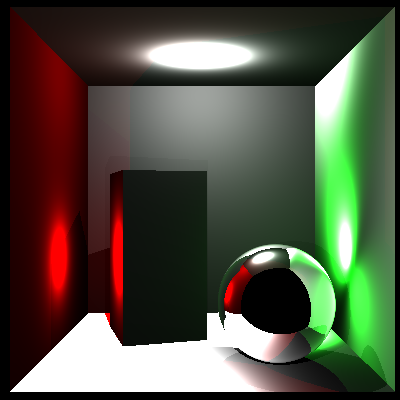
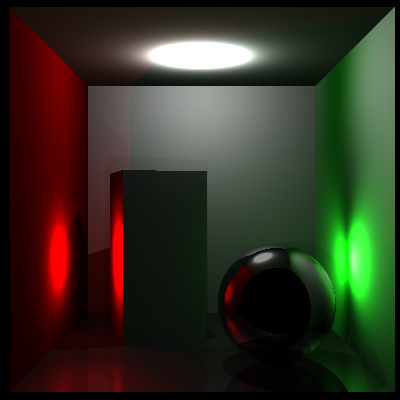
phong issue

Changed region(s): [[0.03, 0.0, 0.99, 0.99]]

diff --git a/rt/integrators/recraytrace.cpp b/rt/integrators/recraytrace.cpp
@@ -5,6 +5,7 @@
 #include <rt/intersection.h>
 #include <rt/solids/solid.h>
 #include <rt/materials/material.h>
+#include <rt/materials/combine.h>
 
 namespace rt
 {
@@ -48,14 +49,14 @@ namespace rt
 			{
 				auto reflectance = currentMaterial->getSampleReflectance(intersection.local(), normal, outDir);
 				Vector inDir = reflectance.direction.normalize();
-				Ray shadowRay = Ray(intersection.hitPoint() + displacement * inDir, inDir);
+				Ray shadowRay = Ray(intersection.hitPoint() + displacement * normal, inDir);
 
 				RGBColor incomingLightColor = this->getRadiance(shadowRay, depth + 1);
 				color = incomingLightColor * reflectance.reflectance;
 			}
+
 			else if (currentMaterial->useSampling() == Material::Sampling::SAMPLING_SECONDARY)
 			{
-				
 				for (auto lightSource : this->world->light)
 				{
 					LightHit lightHit = lightSource->getLightHit(intersection.hitPoint());
@@ -72,12 +73,12 @@ namespace rt
 					color = color + reflected * lightSource->getIntensity(lightHit);
 				}
 				
-				// auto reflectance = currentMaterial->getSampleReflectance(intersection.local(), normal, outDir);
-				// Vector inDir = reflectance.direction.normalize();
-				// Ray shadowRay = Ray(intersection.hitPoint() + displacement * inDir, inDir);
+				 auto reflectance = currentMaterial->getSampleReflectance(intersection.local(), normal, outDir);
+				 Vector inDir = reflectance.direction.normalize();
+				 Ray shadowRay = Ray(intersection.hitPoint() + displacement * inDir, inDir);
 
-				// RGBColor incomingLightColor = this->getRadiance(shadowRay, depth + 1);
-				// color = color + incomingLightColor * reflectance.reflectance;
+				 RGBColor incomingLightColor = this->getRadiance(shadowRay, depth + 1);
+				 color = color + incomingLightColor * reflectance.reflectance;
 			}
 		}
 

diff --git a/rt/materials/combine.cpp b/rt/materials/combine.cpp
@@ -18,7 +18,7 @@ namespace rt
 		for(int i = 0; i < materials.size(); ++i)
 		{
             //use reflectance if Sampling not required
-            if (materials[i].first->useSampling() != Material::SAMPLING_ALL) 
+            if (materials[i].first->useSampling() == Material::SAMPLING_NOT_NEEDED) 
             {
 			    color = color + materials[i].second * materials[i].first->getReflectance(texPoint, normal, outDir, inDir);
             }
@@ -41,7 +41,7 @@ namespace rt
         //at most one of the combined materials requires sampling
         for (int i = 0; i < materials.size(); ++i) 
         {
-            if (materials[i].first->useSampling() != Material::SAMPLING_NOT_NEEDED)
+            if (materials[i].first->useSampling() == Material::SAMPLING_ALL)
             {
                 sampleReflectance = materials[i].first->getSampleReflectance(texPoint, normal, outDir);
                 sampleReflectance.reflectance = materials[i].second * sampleReflectance.reflectance;
@@ -52,7 +52,7 @@ namespace rt
     }
     Material::Sampling CombineMaterial::useSampling() const
     {   
-        return sampling;
+        return Material::SAMPLING_SECONDARY;
     }
     int getSamplingPriority(Material::Sampling samplingType)  
     {

diff --git a/rt/materials/phong.cpp b/rt/materials/phong.cpp
@@ -16,15 +16,16 @@ namespace rt
         //I = ks(V.R)^n
         //https://en.wikipedia.org/wiki/Phong_reflection_model
         //R = 2(L.N)N - L
-        Vector R = 2 * dot(inDir, normal) * normal - inDir;
+        Vector R = (2 * dot(inDir, normal) * normal - inDir).normalize();
+		if (dot(R, normal) < 0 || dot(inDir, normal) < 0)
+			return RGBColor(0, 0, 0);
+
          //TODO what if dot product is -ve -reflection or refraction
         //return specular->getColor(texPoint) * ((exponent+2)/(2*pi))* powf(dot(outDir, R), exponent);
-        return specular->getColor(texPoint) * powf(dot(outDir, R), exponent);
+		return specular->getColor(texPoint) * powf(dot(-outDir.normalize(), R.normalize()), exponent); // *(exponent + 2) / (2 * pi);
     }
     RGBColor PhongMaterial::getEmission(const Point& texPoint, const Vector& normal, const Vector& outDir) const
     {
-
-
         //No emission
         return RGBColor(0.0f, 0.0f, 0.0f);
     }

diff --git a/rt/materials/mirror.cpp b/rt/materials/mirror.cpp
@@ -24,9 +24,10 @@ namespace rt
     }
     SampleReflectance MirrorMaterial::getSampleReflectance(const Point& texPoint, const Vector& normal, const Vector& outDir) const
     {
-        Vector dir = 2 * dot(outDir, normal) * normal - outDir;
+		float dotP = dot(outDir, normal);
+        Vector dir = (outDir - 2 * dotP * normal).normalize();
 	    RGBColor color = getReflectance(texPoint, normal, outDir, dir);
-	    return SampleReflectance(-dir, color);
+	    return SampleReflectance(dir, color);
     }
     Material::Sampling MirrorMaterial::useSampling() const
     {

diff --git a/rt/materials/combine.h b/rt/materials/combine.h
@@ -14,10 +14,10 @@ public:
     virtual RGBColor getEmission(const Point& texPoint, const Vector& normal, const Vector& outDir) const;
     virtual SampleReflectance getSampleReflectance(const Point& texPoint, const Vector& normal, const Vector& outDir) const;
     virtual Sampling useSampling() const;
+	Sampling sampling = Material::SAMPLING_NOT_NEEDED;
 
 private:
     std::vector<std::pair<Material*, float> > materials;
-    Sampling sampling = Material::SAMPLING_NOT_NEEDED;
 };
     int getSamplingPriority(Material::Sampling samplingType);
 }
